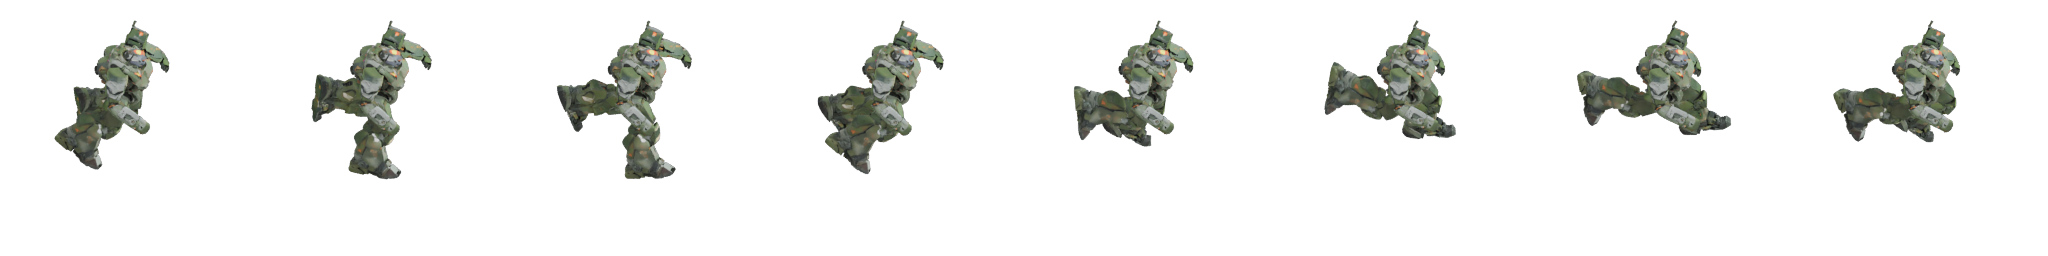
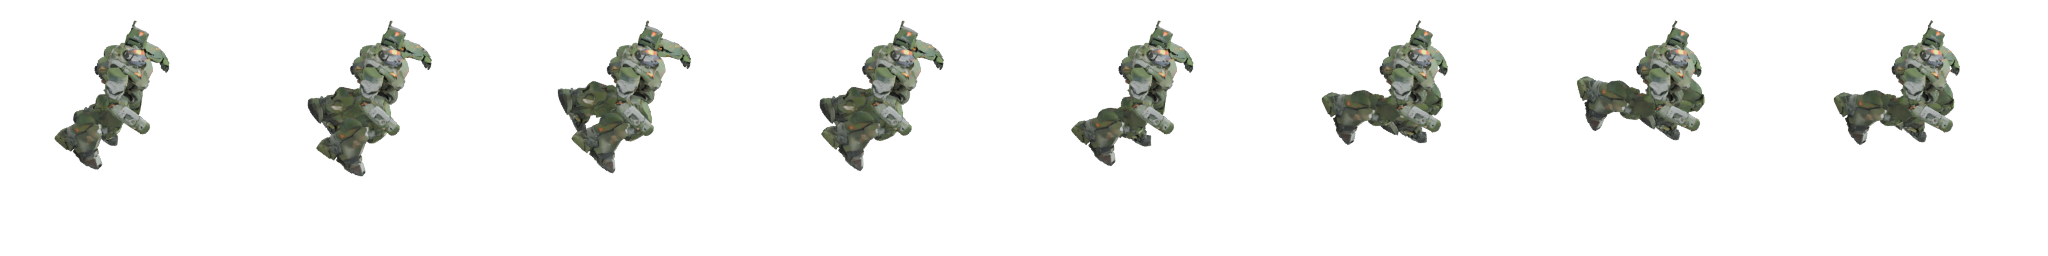
fix: aligne la marche/course de Titan sur vortex/bluestrike (constantes exactes)
Deux correctifs maison (hanche puis phase du genou) rejetes en jeu par le
patron malgre une logique verifiee par rendu a chaque fois : « toujours le
meme probleme ». Plutot qu'une 3e theorie, reprend EXACTEMENT pose_walk/
pose_run de vortex et bluestrike (identiques entre les deux : 28°/45°/0.65
en marche, 40°/58° en course, meme formule -sin(p-offset)) — les deux
seuls chassis dont la demarche est validee en jeu. Titan ne s'en ecarte
plus que sur le buste (plus rigide) et le bob (plus marque), pas la
jambe elle-meme.

Seul reste du correctif rig : l'ecart de hanche du bind pose (mesure via
bpy, ~10° entre gauche/droite, absent chez vortex) — ce n'est pas une
formule d'animation mais une correction du modele 3D. 8 planches walk+
run re-bakees.

diff --git a/tools/build_titan_anims.py b/tools/build_titan_anims.py
@@ -178,27 +178,21 @@ def pose_walk(arm, f, total_frames=8):
         pb["Hips"].location.z = bob
         pb["Hips"].rotation_euler.z = sway
 
-    # Foulee plus ample (jambe levee plus haut = pas qui "tape") mais MEME frequence —
-    # le FPS global (16.0) impose la cadence, l'amplitude seule porte le poids.
-    l_pitch = math.radians(34) * math.sin(p)
-    r_pitch = math.radians(34) * math.sin(p + math.pi)
+    # 🚨 24/09, deux correctifs maison (hanche/genou) essayes et rejetes en jeu par le patron
+    # (« toujours le meme probleme », « on a l'impression qu'il vole ») malgre une logique
+    # verifiee par rendu. Plutot que d'insister sur une 3e theorie, on reprend EXACTEMENT la
+    # marche de vortex/bluestrike (memes constantes : 28°/45°/0.65, meme formule -sin(p-0.25))
+    # — les deux seuls chassis dont la demarche est validee en jeu. Seul l'ecart de hanche du
+    # bind pose (voir apply_bunker_guard_base) reste corrige : ce n'est pas une formule
+    # d'animation mais une mesure du rig (vortex est deja symetrique, titan ne l'est pas).
+    l_pitch = math.radians(28) * math.sin(p)
+    r_pitch = math.radians(28) * math.sin(p + math.pi)
 
-    # 🚨 CORRECTIF PHASE GENOU (patron, 24/09 : « on a l'impression qu'il vole »). L'ancienne
-    # formule -sin(p-0.25) faisait culminer la flexion au DECOLLAGE (hanche au max arriere)
-    # et retombait a 0 (jambe raide) pendant tout le BALANCEMENT AVANT — or c'est justement
-    # pendant le balancement avant que le pied doit se soulever pour degager le sol ; une
-    # jambe raide qui pivote juste a la hanche en gardant le pied a hauteur constante (la
-    # cheville contre-tourne pour le garder a plat) glisse comme sur de la glace : aucun
-    # appui visible, d'ou l'impression de vol. cos(p) culmine a p=0, exactement quand
-    # l_pitch (=34*sin(p)) passe par 0 en augmentant — le milieu du balancement, pied a
-    # l'aplomb du corps, moment ou il doit etre le plus haut. Il retombe a 0 aux deux
-    # extremes (p=+-90°, ~pose jambe tendue a l'appui ET a la posee), et reste nul tout
-    # l'appui (p in [90°,270°]) : la jambe qui porte le poids ne plie pas.
-    l_knee = math.radians(58) * max(0.0, math.cos(p))
-    r_knee = math.radians(58) * max(0.0, -math.cos(p))
+    l_knee = math.radians(45) * max(0.0, -math.sin(p - 0.25))
+    r_knee = math.radians(45) * max(0.0, -math.sin(p + math.pi - 0.25))
 
-    l_ankle = -l_pitch * 0.6
-    r_ankle = -r_pitch * 0.6
+    l_ankle = -l_pitch * 0.65
+    r_ankle = -r_pitch * 0.65
 
     if "LeftUpLeg" in pb:
         pb["LeftUpLeg"].rotation_euler.x += l_pitch
@@ -238,13 +232,12 @@ def pose_run(arm, f, total_frames=8):
         pb["Hips"].rotation_euler.x = math.radians(10)   # penche en avant (Vortex : 6)
         pb["Hips"].rotation_euler.z = sway
 
-    l_pitch = math.radians(44) * math.sin(p)
-    r_pitch = math.radians(44) * math.sin(p + math.pi)
+    # memes constantes que vortex/bluestrike (voir pose_walk) : 40°/58°/-sin(p-0.2).
+    l_pitch = math.radians(40) * math.sin(p)
+    r_pitch = math.radians(40) * math.sin(p + math.pi)
 
-    # meme correctif de phase que pose_walk (voir son commentaire) : cos(p) culmine au milieu
-    # du balancement avant plutot qu'au decollage.
-    l_knee = math.radians(62) * max(0.0, math.cos(p))
-    r_knee = math.radians(62) * max(0.0, -math.cos(p))
+    l_knee = math.radians(58) * max(0.0, -math.sin(p - 0.2))
+    r_knee = math.radians(58) * max(0.0, -math.sin(p + math.pi - 0.2))
 
     if "LeftUpLeg" in pb:
         pb["LeftUpLeg"].rotation_euler.x += l_pitch
